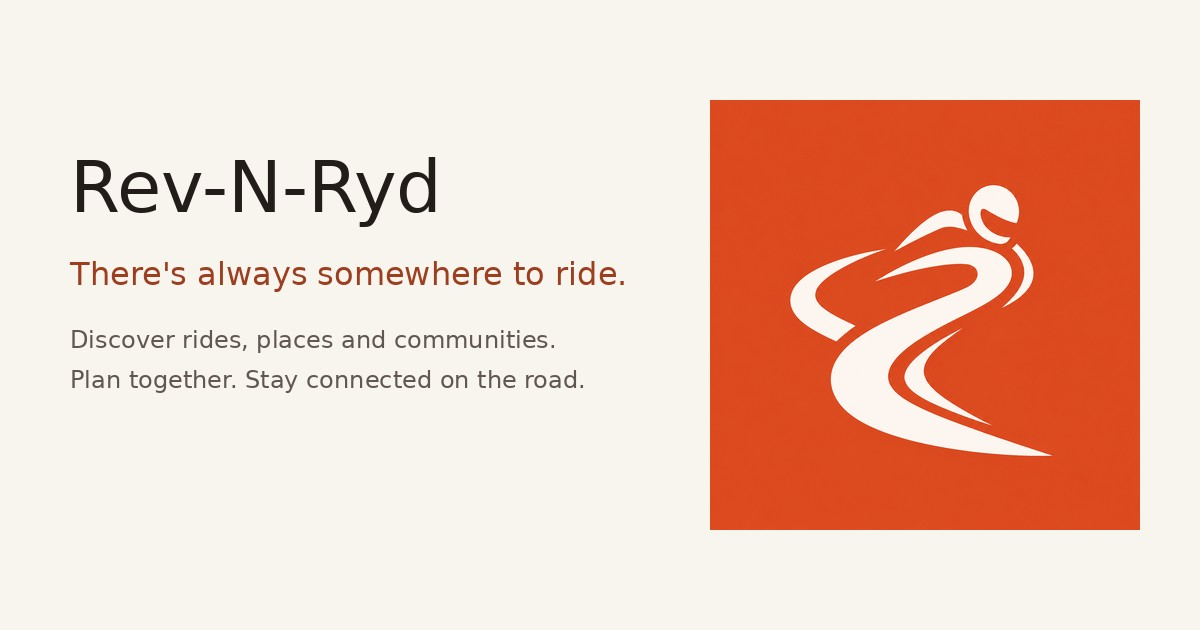
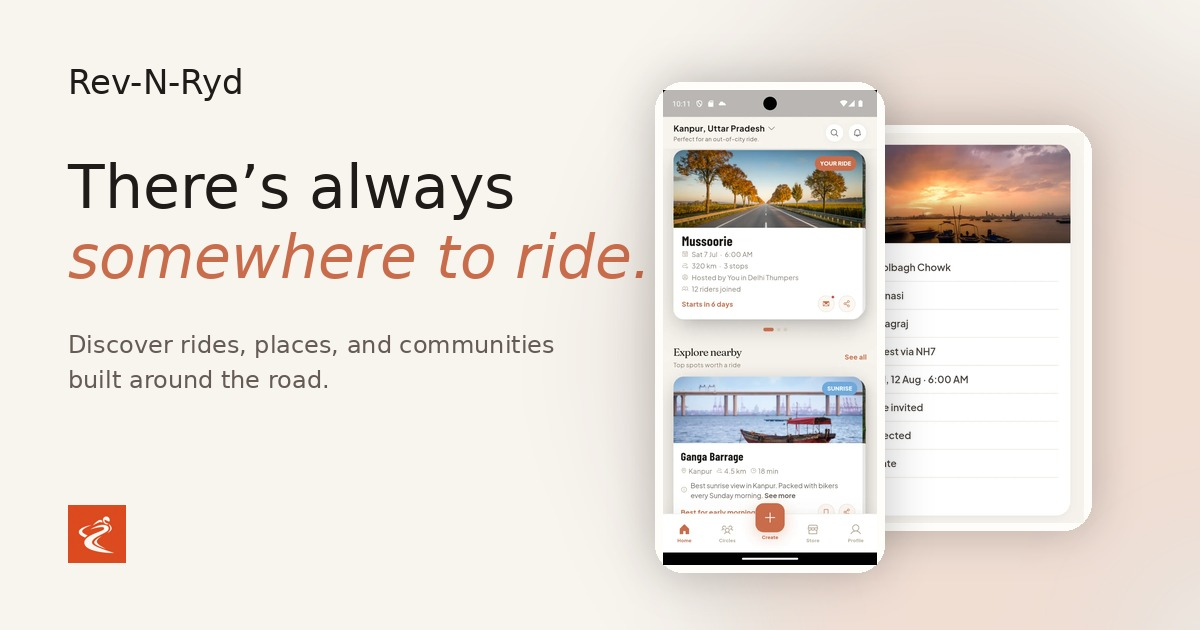
feat: update website content

diff --git a/index.html b/index.html
@@ -18,14 +18,14 @@
 <meta property="og:type" content="website">
 <meta property="og:site_name" content="Rev-N-Ryd">
 <meta property="og:title" content="Rev-N-Ryd — There's always somewhere to ride.">
-<meta property="og:description" content="Discover rides, places and communities. Plan together and stay connected on the road.">
+<meta property="og:description" content="Discover rides, find places worth riding to, meet your community, and stay together on the road.">
 <meta property="og:url" content="https://revnryd.com/">
 <meta property="og:image" content="https://revnryd.com/assets/og-image.jpg">
 <meta property="og:image:width" content="1200">
 <meta property="og:image:height" content="630">
 <meta name="twitter:card" content="summary_large_image">
 <meta name="twitter:title" content="Rev-N-Ryd — There's always somewhere to ride.">
-<meta name="twitter:description" content="Discover rides, places and communities. Plan together and stay connected on the road.">
+<meta name="twitter:description" content="Discover rides, find places worth riding to, meet your community, and stay together on the road.">
 <meta name="twitter:image" content="https://revnryd.com/assets/og-image.jpg">
 </head>
 <body>